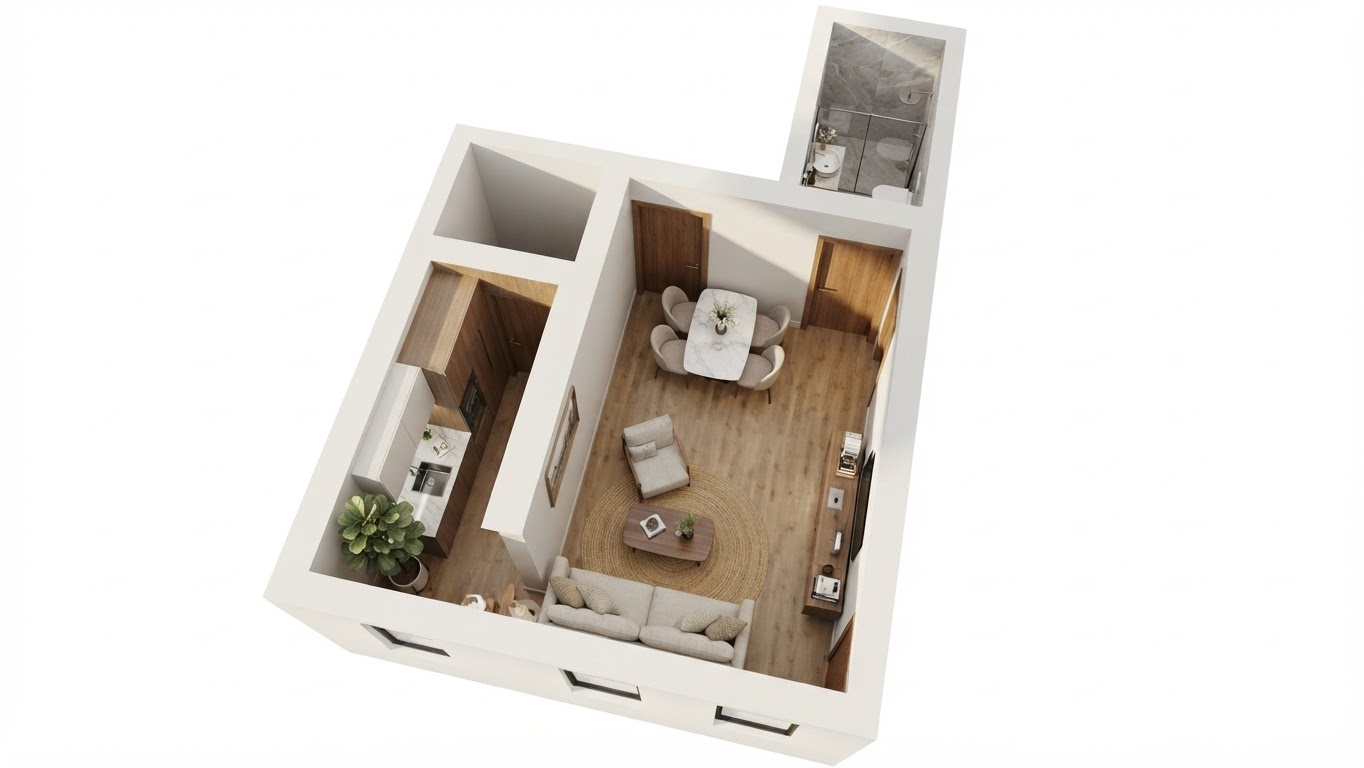
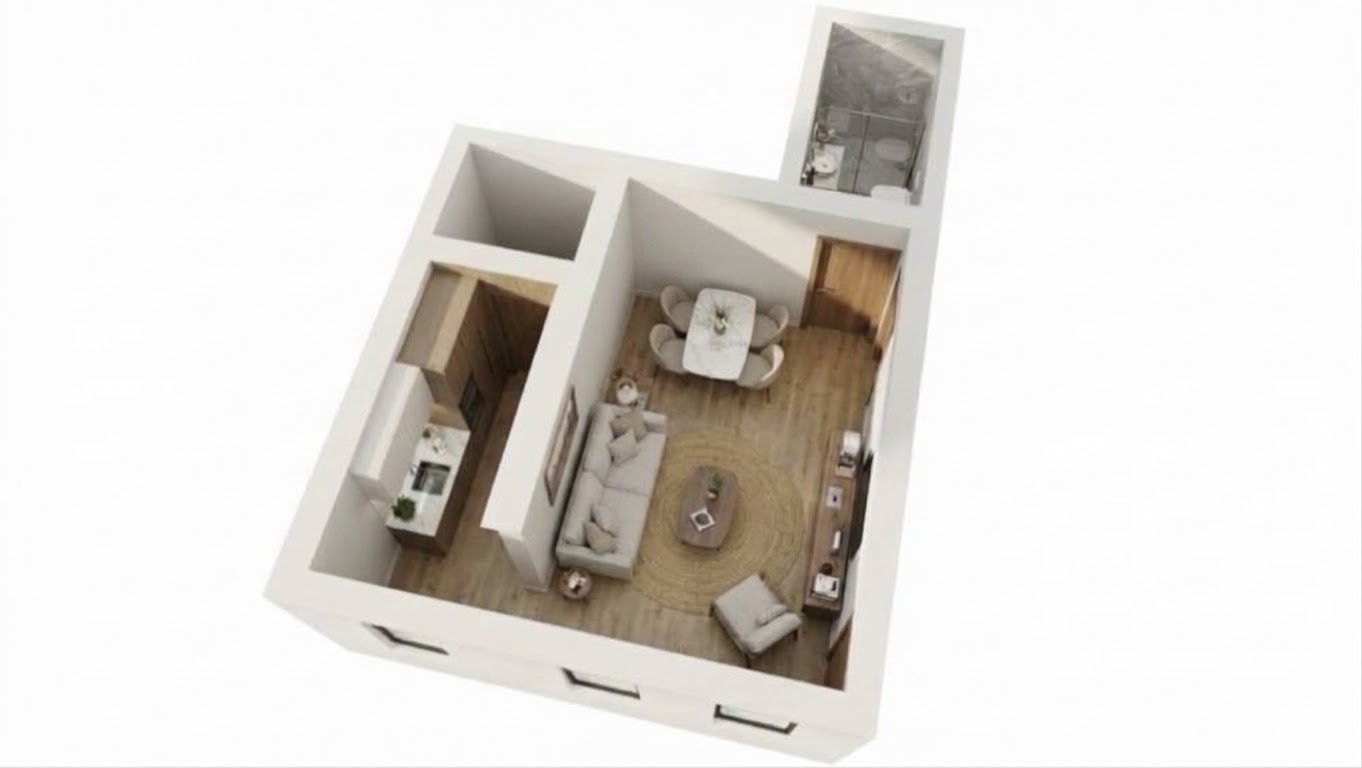
Exposé: Terrasse aus Grundriss Erdgeschoss Garten, €/m² und „5“ entfernt
- Grundriss Wohnung Erdgeschoss in Richtung Garten ohne Terrasse
  (links abgeschnitten, Rest pixelgleich; trim_plan_left)
- Kaltmiete je m² auf den Wohnungsseiten entfällt
- Eckdaten: „Mietwohnungen“ ohne Zahl
- Neue Luftansichten 2. OG und Untergeschoss als Originale

Claude-Session: https://claude.ai/code/session_01EiwwBcikEBN93PfXpK1HTb

diff --git a/expose/prepare_assets.py b/expose/prepare_assets.py
@@ -31,7 +31,7 @@ PLANS = {
     6: ("w1", {"Wohnen-Kochen-Essen": ("Wohnen · Kochen · Essen", "29,70"), "Schlafen": ("Schlafen", "12,67"),
                "Bad": ("Bad", "4,71"), "Abstl.": ("Abstl.", "2,60")}, []),
     8: ("w2", {"Wohnen-Kochen-Essen": ("Wohnen · Kochen · Essen", "43,19"), "Schlafen": ("Schlafen", "13,52"),
-               "Bad": ("Bad", "4,15"), "Abstl.": ("Abstl.", "1,49"), "Terrasse": ("Terrasse", "6,13")}, []),
+               "Bad": ("Bad", "4,15"), "Abstl.": ("Abstl.", "1,49")}, []),
     11: ("w3-eg", {"Wohnen-Kochen-Essen": ("Wohnen · Kochen · Essen", "97,57"), "Bad": ("Gäste-Bad", "3,58"),
                    "Abstl.": ("Abstl.", "2,05"), "Balkon": ("Balkon", "7,22")}, []),
     12: ("w3-og", {"Schlafen": ("Schlafen", "15,50"), "Ankleide": ("Ankleide", "21,88"), "Büro": ("Büro", "11,62"),
@@ -107,6 +107,39 @@ def export_plans(pdf_path):
         }
         print(f"Plan {name}: {box.width / PT_PER_M:.2f} × {box.height / PT_PER_M:.2f} m, {len(found)} Labels")
     (ASSETS / "plans" / "plans.json").write_text(json.dumps(out, ensure_ascii=False, indent=1))
+    for name in PLAN_TRIM_LEFT:
+        trim_plan_left(name)
+
+
+# Pläne, bei denen links ein Teil wegfällt (Terrasse der Wohnung Erdgeschoss in Richtung Garten entfällt)
+PLAN_TRIM_LEFT = {"w2"}
+
+
+def trim_plan_left(name):
+    """Alles links der Außenwand abschneiden; der übrige Plan bleibt pixelgleich. Mehrfach aufrufbar."""
+    png = ASSETS / "plans" / f"{name}.png"
+    meta_path = ASSETS / "plans" / "plans.json"
+    meta = json.loads(meta_path.read_text())
+    g = np.asarray(Image.open(png).convert("L"))
+    h, w = g.shape
+    lower = g[int(h * 0.68):]                      # unterhalb der Terrasse liegt nur noch das Gebäude
+    wall = int(np.where((lower < 128).any(axis=0))[0].min())
+    pad = round(4 * TARGET_DPI * (10 / 25.4 * 72 / PT_PER_M) / 72)   # wie der Rand der übrigen Pläne
+    x0 = max(wall - pad, 0)
+    out = g[:, x0:].copy()
+    out[:, :wall - x0] = 255                       # Reste der Terrassenkante links der Wand
+    Image.fromarray(out).save(png, optimize=True)
+    if x0 <= 5:
+        return
+    m = meta[name]
+    px_per_m = w / m["width_m"]
+    m["width_m"] = round((w - x0) / px_per_m, 3)
+    fix = lambda pos: [round((pos[0] / 100 * w - x0) / (w - x0) * 100, 2), pos[1]]
+    m["labels"] = [dict(l, pos=fix(l["pos"])) for l in m["labels"] if l["name"] != "Terrasse"]
+    if m.get("entry"):
+        m["entry"] = fix(m["entry"])
+    meta_path.write_text(json.dumps(meta, ensure_ascii=False, indent=1))
+    print(f"Plan {name}: links {x0} px entfernt, neue Breite {m['width_m']} m")
 
 
 def export_cover(pdf_path):

diff --git a/expose/build.py b/expose/build.py
@@ -236,7 +236,7 @@ def build(variant="hell"):
             ("Objekt", f"Neubau, {CITY}"),
             ("Baujahr", "2027"),
             ("Erstbezug", f"ab {MOVE_IN}"),
-            ("Mietwohnungen", "5, Untergeschoss bis 2. OG"),
+            ("Mietwohnungen", "Untergeschoss bis 2. OG"),
             ("Wohnflächen", f"33,24 – 65,04{NB}m²"),
             ("Kaltmieten", f"595,00 – 995,00{NB}€"),
             ("Kaltmiete je m²", f"ab 15,00{NB}€"),
@@ -340,7 +340,6 @@ def build(variant="hell"):
                 f'<div style="padding-top:5mm">' + facts([
                     ("Wohnfläche", m2(u["area"]), True),
                     ("Kaltmiete", eur(u["rent"]), True),
-                ] + ([("Kaltmiete je m²", eur(u["sqm"]))] if u["sqm"] else []) + [
                     ("Freifläche", outdoor),
                     ("Geschoss", u["floor"]),
                     ("Bezugsfrei ab", MOVE_IN),

diff --git a/renderings/aufbereiten.py b/renderings/aufbereiten.py
@@ -36,7 +36,8 @@ SIZE = (1920, 1080)
 # hochrechnen (esrgan.py, braucht torch) und mit der FSRCNN-Fassung mischen, damit Stoffe
 # und Teppiche ihre natürliche Struktur behalten.
 STRONG_SR = {"wohnung 1 innenansicht", "wohnung 1 luftansicht", "wohnung 2 innenansicht",
-             "wohnung 4 innenansicht", "wohnung 4 luftansicht", "wohnung 6 innenansicht"}
+             "wohnung 4 innenansicht", "wohnung 4 luftansicht", "wohnung 5 luftansicht",
+             "wohnung 6 innenansicht", "wohnung 6 luftansicht"}
 STRONG_SR_MIX = 0.85  # Anteil Real-ESRGAN
 WHITE = np.array([0.98, 1.0, 1.015])  # Ziel-Weiß in B, G, R: Tageslicht, minimal warm
 WB_STRENGTH = 0.9                     # Anteil der Farbstich-Korrektur
